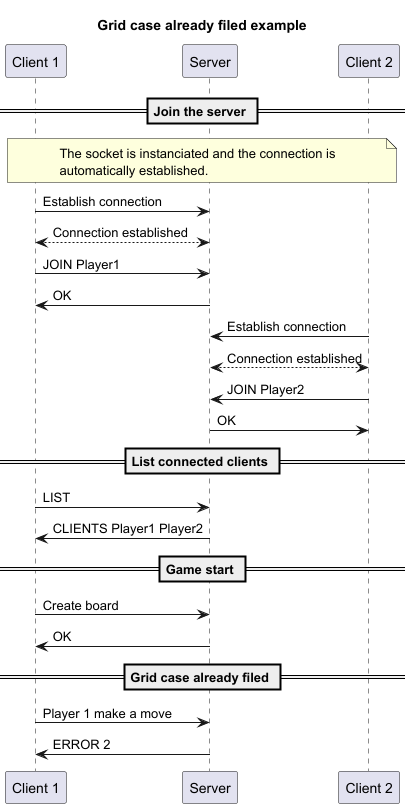
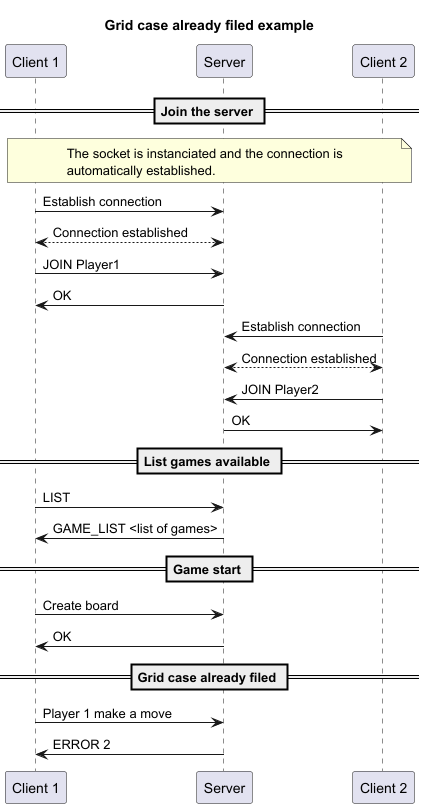
modif protocol and add cmds in readme

diff --git a/doc/README.md b/doc/README.md
@@ -48,12 +48,84 @@ After a game has finished, the Player 1 can choose to begin another game, where 
 
 ## Section 3 - Messages
 
+### Join the server
 
+The client send a message to the server and the name of the player is assigned automatically based on their order of arrival.
+
+#### Request
+```sh
+JOIN
+```
+
+#### Response
+
+- OK: the client has been granted access to the server
+- ``ERROR <code>``: an error occured. The error code is between 1 and 1 inclusive. The error codes are as follow:
+    - 1: the game is already full
+
+### List started games
+
+The client sends a message to the server to request the list game waiting for another player.
+
+#### Request
+
+````sh
+LIST
+````
+
+#### Response
+
+- ``Games...``
+
+### Create board
+
+The client sends a message to the server to create a new board.
+
+#### Request
+
+````sh
+CREATE BOARD <size>
+````
+- ``size``: the size of the board
+
+#### Response
+waiting screen
+
+### Send a move
+
+The client send a move to the server.
+
+#### Request
+
+````sh
+XY
+````
+- ``X``: column of the board
+- ``Y``: line of the board
+
+#### Response
+- ``OK``:The server actualize the board for the player
+- ``ERROR <code>``: an error occured. The error code is between 1 and 3 inclusive. The error codes are as follow:
+  - 1: the format of the selection is wrong
+  - 2: the case selected has already been filed
+  - 3: the case selected is out of bounds
+
+### Recieve a move
+
+The server send the move of the opposing player.
+
+#### Response
+
+The board is updtaed with the opposing player's move.
 
 ## Section 4 - Examples
 
 ### Functional Example
 ![Functional Example](img/Functional_example-Functionnal_example.png)
+### A Player try to join a game that is already full
+![too many player](img/try_join_full_game-A_Player_try_to_join_a_game_that_is_already_full.png)
+### The size for the board is out of bounds
+![size out of bounds](img/creation_format_error_example-The_size_for_the_board_is_out_bounds_example.png)
 ### Wrong Format grid selection error
 ![Wrong Format grid selection error](img/format_error_example-Wrong_grid_selection_format_example.png)
 ### Case already filed error

diff --git a/README.md b/README.md
@@ -84,15 +84,33 @@ Go get our package on [placeholder](https://github.com/LisaGorgerat?tab=packages
  
 To build the image, go in the folder of the app and use the command:
 ```sh
-docker build -t <nom_app>
+docker build -t <app_name>
 ```
 
 ## Usage
 Once the app is built, you can run it.
 ### Run the application
-If you are using docker, you can use the command:
+
+In the case of docker, we also need to create a network, so that 2 container can communicate with eachother:
 ````sh
-docker run <image-name>
+docker network create <network_name>
+````
+
+And you can list the Docker networks with:
+````sh
+docker network ls
+````
+
+Then you need to run each container:
+
+- the first one:
+````sh
+docker run --rm -it --network <network_name> --name <container_name> <img_name> -l <port>
+````
+
+- the second one:
+````sh
+docker run --rm -it --network <network_name> --name <img_name> <container_name> <port>
 ````
 
 Otherwise, you can use the terminal with:
@@ -106,5 +124,6 @@ or with the premades configs:
 
 ![start client]()
 
-
 ## Demonstration
+
+
